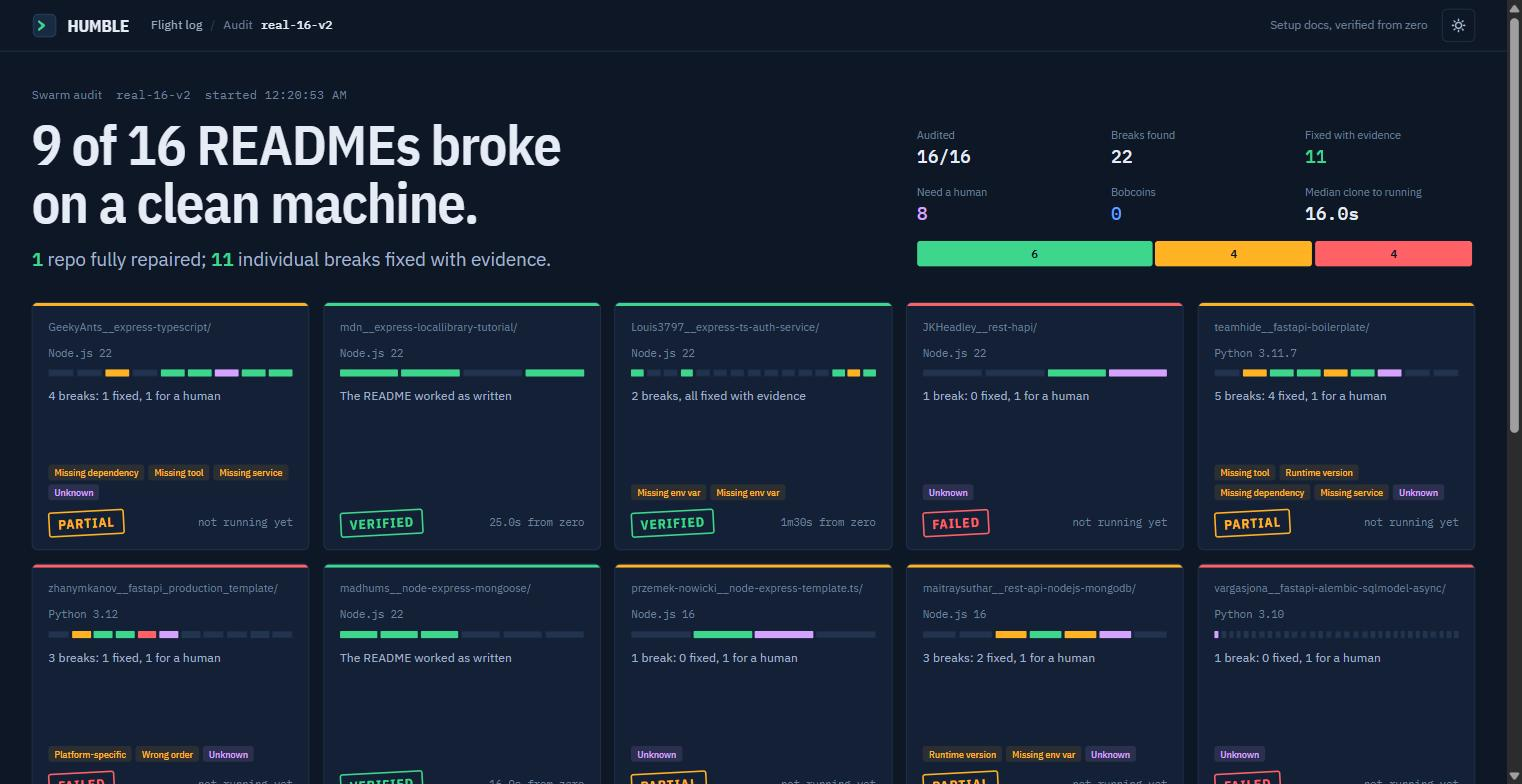
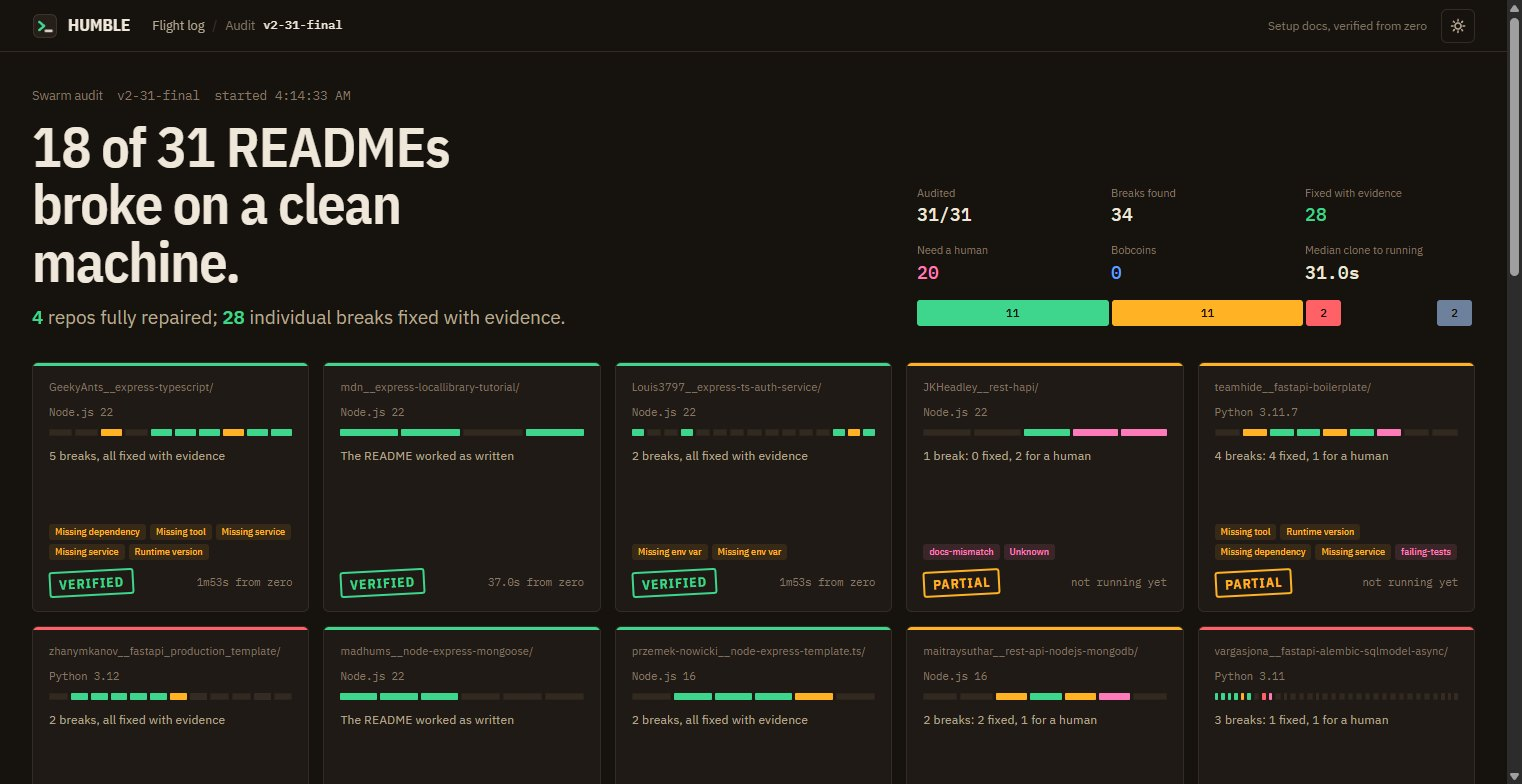
web: honest Prove-it copy, real dashboard shot, consistent agent names, legend + gallery polish
- Prove it: 'LIVE · one click runs... right now' overpromised (chips replay
  recorded runs; live checks need hosted verify). Copy now names both paths.
- Proof gallery: audit-dashboard.jpg re-shot from /app/#/audit/v2-31-final
  (18 of 31, 34 found, 28 fixed); it still showed the old '9 of 16'. Alt text too.
- Hero illustration: '53s replay' -> the audited 1 m 53 s.
- Hero agent row uses the same names/roles as How it works (Harvey, Unity,
  Mach, DR.BO, Larp, Echo); 'LIVE 3D ORBS' badge -> 'How they work' link.
- Story legend: 10-11px -> 11.5-12.5px; the 🧵 glyph (rendered as a broken
  box on Windows) -> an arrow.
- Gallery: thin scrollbar in page colours instead of the default white bar.

diff --git a/web/public/index.html b/web/public/index.html
@@ -94,9 +94,9 @@
           </div>
           
           <div class="prove-panel-header">
-            <p class="eyebrow mono">LIVE · NO SIGN-IN · PUBLIC REPOS ONLY</p>
+            <p class="eyebrow mono">Recorded runs · or any public repo · no sign-in</p>
             <h2 id="h-prove-live" class="prove-headline">Watch a README get proven.</h2>
-            <p class="prove-sub">One click runs the whole check on a clean machine, right now. The clean machine proves. Bob explains.</p>
+            <p class="prove-sub">Replay a recorded run step by step, or paste a public repo to run the whole check on a clean machine. The clean machine proves. Bob explains.</p>
           </div>
 
           <div class="prove-input-block">
@@ -113,7 +113,7 @@
             <div class="prove-brand-story mono" id="prove-brand-story">
               <span class="story-label">In the art & in real proof:</span>
               <span class="story-chip-break">⚡ <span class="crack-text">pink crack</span>: npm install breaks</span>
-              <span class="story-thread-arrow">🧵</span>
+              <span class="story-thread-arrow" aria-hidden="true">→</span>
               <span class="story-chip-fix"><span class="thread-text">blue thread</span>: npm install --legacy-peer-deps</span>
             </div>
           </div>
@@ -132,79 +132,79 @@
             </div>
           </div>
 
-          <p class="prove-footer mono">Runs on GitHub Actions. Takes 3–10 minutes. We never store your code.</p>
+          <p class="prove-footer mono">Live checks run on GitHub Actions and take 3–10 minutes. We never store your code.</p>
         </div>
       </div>
       <div class="hero-agents" aria-label="HUMBLE Six-Agent Pipeline">
         <div class="hero-agents-label">
           <span class="mono">Six specialized agents · orchestrated by IBM Bob</span>
-          <span class="agent-live-tag mono"><span class="agent-live-dot"></span> LIVE 3D ORBS</span>
+          <a class="agent-live-tag mono" href="#how">How they work ↓</a>
         </div>
         <div class="hero-agents-grid">
-          <button type="button" class="agent-chip" data-agent="scout" aria-label="Agent 01 Scout: Audits facts against reality">
+          <button type="button" class="agent-chip" data-agent="scout" aria-label="Agent 01 Harvey: Scout · reads the repo">
             <span class="agent-chip-header">
               <span class="agent-chip-id mono" style="color:var(--c-scout)">01</span>
-              <span class="agent-chip-name">Scout</span>
+              <span class="agent-chip-name">Harvey</span>
             </span>
             <span class="agent-chip-orb">
               <canvas class="agent-orb" data-orb="searching" width="44" height="44" aria-hidden="true"></canvas>
             </span>
-            <span class="agent-chip-role mono">Audits Facts</span>
+            <span class="agent-chip-role mono">Scout · reads the repo</span>
           </button>
 
-          <button type="button" class="agent-chip" data-agent="planner" aria-label="Agent 02 Planner: Turns prose into commands">
+          <button type="button" class="agent-chip" data-agent="planner" aria-label="Agent 02 Unity: Planner · sequences the run">
             <span class="agent-chip-header">
               <span class="agent-chip-id mono" style="color:var(--c-planner)">02</span>
-              <span class="agent-chip-name">Planner</span>
+              <span class="agent-chip-name">Unity</span>
             </span>
             <span class="agent-chip-orb">
               <canvas class="agent-orb" data-orb="shaping" width="44" height="44" aria-hidden="true"></canvas>
             </span>
-            <span class="agent-chip-role mono">Builds Plan</span>
+            <span class="agent-chip-role mono">Planner · sequences the run</span>
           </button>
 
-          <button type="button" class="agent-chip" data-agent="runner" aria-label="Agent 03 Runner: Runs steps on clean machine">
+          <button type="button" class="agent-chip" data-agent="runner" aria-label="Agent 03 Mach: Runner · runs on a clean machine">
             <span class="agent-chip-header">
               <span class="agent-chip-id mono" style="color:var(--c-runner)">03</span>
-              <span class="agent-chip-name">Runner</span>
+              <span class="agent-chip-name">Mach</span>
             </span>
             <span class="agent-chip-orb">
               <canvas class="agent-orb" data-orb="working" width="44" height="44" aria-hidden="true"></canvas>
             </span>
-            <span class="agent-chip-role mono">Zero Clean</span>
+            <span class="agent-chip-role mono">Runner · runs on a clean machine</span>
           </button>
 
-          <button type="button" class="agent-chip" data-agent="doctor" aria-label="Agent 04 Doctor: Diagnoses failures with IBM Bob">
+          <button type="button" class="agent-chip" data-agent="doctor" aria-label="Agent 04 DR.BO: Doctor · diagnoses and fixes">
             <span class="agent-chip-header">
               <span class="agent-chip-id mono" style="color:var(--c-doctor)">04</span>
-              <span class="agent-chip-name">Doctor</span>
+              <span class="agent-chip-name">DR.BO</span>
             </span>
             <span class="agent-chip-orb">
               <canvas class="agent-orb" data-orb="solving" width="44" height="44" aria-hidden="true"></canvas>
             </span>
-            <span class="agent-chip-role mono">Diagnoses</span>
+            <span class="agent-chip-role mono">Doctor · diagnoses and fixes</span>
           </button>
 
-          <button type="button" class="agent-chip" data-agent="verifier" aria-label="Agent 05 Verifier: Discards machine and replays from zero">
+          <button type="button" class="agent-chip" data-agent="verifier" aria-label="Agent 05 Larp: Verifier · proves from zero">
             <span class="agent-chip-header">
               <span class="agent-chip-id mono" style="color:var(--c-verifier)">05</span>
-              <span class="agent-chip-name">Verifier</span>
+              <span class="agent-chip-name">Larp</span>
             </span>
             <span class="agent-chip-orb">
               <canvas class="agent-orb" data-orb="listening" width="44" height="44" aria-hidden="true"></canvas>
             </span>
-            <span class="agent-chip-role mono">Replays Zero</span>
+            <span class="agent-chip-role mono">Verifier · proves from zero</span>
           </button>
 
-          <button type="button" class="agent-chip" data-agent="scribe" aria-label="Agent 06 Scribe: Writes minimal README diff with proof">
+          <button type="button" class="agent-chip" data-agent="scribe" aria-label="Agent 06 Echo: Scribe · rewrites the README">
             <span class="agent-chip-header">
               <span class="agent-chip-id mono" style="color:var(--c-scribe)">06</span>
-              <span class="agent-chip-name">Scribe</span>
+              <span class="agent-chip-name">Echo</span>
             </span>
             <span class="agent-chip-orb">
               <canvas class="agent-orb" data-orb="composing" width="44" height="44" aria-hidden="true"></canvas>
             </span>
-            <span class="agent-chip-role mono">Proves Diff</span>
+            <span class="agent-chip-role mono">Scribe · rewrites the README</span>
           </button>
         </div>
       </div>
@@ -394,7 +394,7 @@
       <p class="wall-note muted" id="wall-note"></p>
       <div class="gallery" id="gallery" data-reveal>
         <figure class="card-shot" data-motion="proof">
-          <img src="/assets/img/audit-dashboard.jpg" width="1522" height="784" loading="lazy" alt="The HUMBLE audit dashboard: 9 of 16 READMEs broke on a clean machine, 22 breaks found, 11 fixed with evidence, one card per repository with its verdict.">
+          <img src="/assets/img/audit-dashboard.jpg" width="1522" height="784" loading="lazy" alt="The HUMBLE audit dashboard for audit v2-31-final: 18 of 31 READMEs broke on a clean machine, 34 breaks found, 28 fixed with evidence, one card per repository with its verdict." data-run="v2-31-final">
           <figcaption class="cap"><span class="tag" style="background:color-mix(in srgb,var(--c-scout) 18%,transparent);color:var(--c-scout)">Audit</span><h3 data-stat="caption">31 public repos, pinned to exact commits</h3><p>Every card is a real run you can open, step by step.</p><a class="link" href="/audit">Open the audit</a></figcaption>
         </figure>
         <article class="card-diff-slider">

diff --git a/web/public/assets/prove-live.js b/web/public/assets/prove-live.js
@@ -69,13 +69,13 @@
     const storyBar = document.getElementById('prove-brand-story');
     if (!storyBar) return;
     if (repo === 'GeekyAnts/express-typescript') {
-      storyBar.innerHTML = '<span class="story-label">GeekyAnts proof (banner story):</span> <span class="story-chip-break">⚡ <span class="crack-text">pink crack</span>: npm install peer conflict</span> <span class="story-thread-arrow">🧵</span> <span class="story-chip-fix"><span class="thread-text">blue thread</span>: npm install --legacy-peer-deps</span>';
+      storyBar.innerHTML = '<span class="story-label">GeekyAnts proof (banner story):</span> <span class="story-chip-break">⚡ <span class="crack-text">pink crack</span>: npm install peer conflict</span> <span class="story-thread-arrow" aria-hidden="true">→</span> <span class="story-chip-fix"><span class="thread-text">blue thread</span>: npm install --legacy-peer-deps</span>';
     } else if (repo === 'b25bb1004-wq/acme-shop') {
-      storyBar.innerHTML = '<span class="story-label">acme-shop demo:</span> <span class="story-chip-break">⚡ <span class="crack-text">pink crack</span>: node 18/20 engine fail</span> <span class="story-thread-arrow">🧵</span> <span class="story-chip-fix"><span class="thread-text">blue thread</span>: node 20 verified replay</span>';
+      storyBar.innerHTML = '<span class="story-label">acme-shop demo:</span> <span class="story-chip-break">⚡ <span class="crack-text">pink crack</span>: node 18/20 engine fail</span> <span class="story-thread-arrow" aria-hidden="true">→</span> <span class="story-chip-fix"><span class="thread-text">blue thread</span>: node 20 verified replay</span>';
     } else if (repo === 'addyosmani/git2txt') {
-      storyBar.innerHTML = '<span class="story-label">addyosmani/git2txt:</span> <span class="story-chip-break">⚡ <span class="crack-text">break diagnosis</span></span> <span class="story-thread-arrow">🧵</span> <span class="story-chip-fix"><span class="thread-text">blue thread</span>: automated zero replay pass</span>';
+      storyBar.innerHTML = '<span class="story-label">addyosmani/git2txt:</span> <span class="story-chip-break">⚡ <span class="crack-text">break diagnosis</span></span> <span class="story-thread-arrow" aria-hidden="true">→</span> <span class="story-chip-fix"><span class="thread-text">blue thread</span>: automated zero replay pass</span>';
     } else {
-      storyBar.innerHTML = '<span class="story-label">Live prove:</span> <span class="story-chip-break">⚡ <span class="crack-text">pink crack</span> for breaks</span> <span class="story-thread-arrow">🧵</span> <span class="story-chip-fix"><span class="thread-text">blue thread</span> for verified fixes</span>';
+      storyBar.innerHTML = '<span class="story-label">Live prove:</span> <span class="story-chip-break">⚡ <span class="crack-text">pink crack</span> for breaks</span> <span class="story-thread-arrow" aria-hidden="true">→</span> <span class="story-chip-fix"><span class="thread-text">blue thread</span> for verified fixes</span>';
     }
   }
 

diff --git a/web/public/assets/site.css b/web/public/assets/site.css
@@ -204,6 +204,12 @@ section { padding: clamp(72px, 11vw, 140px) 0; }
 
 /* Horizontal proof gallery, Apple "Explore the lineup" style: large cards, the next one peeks in */
 .gallery { display: grid; grid-auto-flow: column; grid-auto-columns: min(78vw, 820px); gap: 20px; overflow-x: auto; scroll-snap-type: x mandatory; padding: 8px var(--gutter) 28px; margin: 0 calc(var(--gutter) * -1); scrollbar-width: thin; }
+/* A thin scrollbar in the page's own colours: the default white bar broke the paper look under the gallery. */
+.gallery { scrollbar-width: thin; scrollbar-color: var(--line) transparent; padding-bottom: 6px; }
+.gallery::-webkit-scrollbar { height: 6px; }
+.gallery::-webkit-scrollbar-track { background: transparent; }
+.gallery::-webkit-scrollbar-thumb { background: var(--line); border-radius: 3px; }
+.gallery::-webkit-scrollbar-thumb:hover { background: var(--muted); }
 .gallery > * { scroll-snap-align: start; border-radius: var(--r-card); border: 1px solid var(--line); background: var(--bg); overflow: hidden; display: flex; flex-direction: column; }
 .gallery .cap { padding: 22px 26px 26px; }
 .gallery .cap h3 { font-size: 22px; margin-bottom: 8px; } .gallery .cap p { color: var(--muted); margin: 0 0 14px; }
@@ -590,9 +596,12 @@ section[id] {
   display: inline-flex;
   align-items: center;
   gap: 6px;
-  font-size: 11px;
+  font-size: 12px;
   color: var(--accent);
+  text-decoration: none;
+  padding: 6px 0; /* a comfortable tap target */
 }
+a.agent-live-tag:hover, a.agent-live-tag:focus-visible { text-decoration: underline; text-underline-offset: 3px; }
 .agent-live-dot {
   width: 6px;
   height: 6px;
@@ -1007,7 +1016,7 @@ section[id] {
   gap: 10px;
   flex-wrap: wrap;
   margin-top: 14px;
-  font-size: 11px;
+  font-size: 12.5px;
   color: var(--muted);
   padding: 8px 12px;
   background: color-mix(in srgb, var(--bg) 80%, transparent);
@@ -1019,7 +1028,7 @@ section[id] {
   color: var(--muted);
   letter-spacing: 0.04em;
   text-transform: uppercase;
-  font-size: 10px;
+  font-size: 11.5px;
 }
 .story-chip-break {
   color: var(--brand-crack);

diff --git a/web/public/assets/motion/hero.js b/web/public/assets/motion/hero.js
@@ -44,7 +44,7 @@ export function init(container, { reduced = false } = {}) {
 
       <div class="h-caption" style="font-size: 12px; color: var(--muted); padding-top: 4px; display: flex; justify-content: space-between; align-items: center;">
         <span>Illustration of a real run pattern · see <a href="/proof" class="link" style="color: var(--ink); text-decoration: underline;">/proof</a> for a recording</span>
-        <span class="h-time-indicator" style="font-size: 11px;">53s replay from zero</span>
+        <span class="h-time-indicator" style="font-size: 11px;" data-run="v2-31-final-GeekyAnts__express-typescript">audited run: 1 m 53 s replay from zero</span>
       </div>
     </div>
   `;
